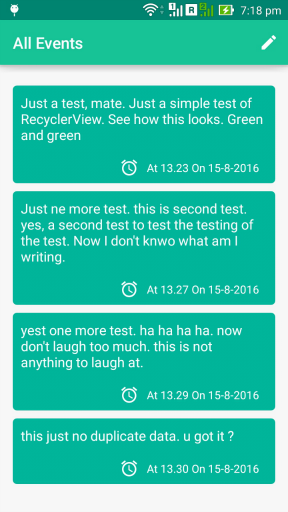
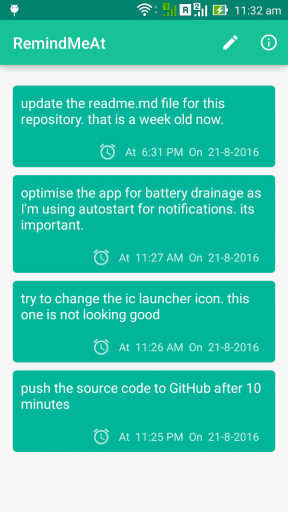
app is feature ready now

diff --git a/RemindMeAt/app/src/main/java/com/asu/remind/activity/AddEvent.java b/RemindMeAt/app/src/main/java/com/asu/remind/activity/AddEvent.java
@@ -96,9 +96,6 @@ public class AddEvent extends AppCompatActivity {
             c1 = Calendar.getInstance();
             mHour = c1.get(Calendar.HOUR_OF_DAY);
             mMinute = c1.get(Calendar.MINUTE);
-            formattedTime = FormatTime(mHour, mMinute);
-
-
 
                 // Launch Time Picker Dialog
             TimePickerDialog timePickerDialog = new TimePickerDialog(AddEvent.this,
@@ -107,6 +104,7 @@ public class AddEvent extends AppCompatActivity {
                         @Override
                        public void onTimeSet(TimePicker view, int hourOfDay, int minute) {
 
+                            formattedTime = FormatTime(hourOfDay, minute);
                             edtTime.setText(formattedTime);
                         }
                     }, mHour, mMinute, false);
@@ -232,6 +230,41 @@ public class AddEvent extends AppCompatActivity {
                 break;
             }
         }
+    }
+
+
+
+    public String FormatTime(int hour, int minute){
+
+        String time;
+        time = "";
+        String formattedMinute;
+
+        if(minute/10 == 0){
+            formattedMinute = "0"+minute;
+        }
+        else{
+            formattedMinute = ""+minute;
+        }
+
+
+        if(hour == 0){
+            time = "12" + ":" + formattedMinute + " AM";
+        }
+        else if(hour < 12){
+            time = hour + ":" + formattedMinute + " AM";
+        }
+        else if(hour == 12){
+            time = "12" + ":" + formattedMinute + " PM";
+        }
+        else{
+            int temp = hour - 12;
+            time = temp + ":" + formattedMinute + " PM";
+        }
+
+
+
+        return time;
     }
 
 

diff --git a/RemindMeAt/app/src/main/java/com/asu/remind/util/BootUpReceiver.java b/RemindMeAt/app/src/main/java/com/asu/remind/util/BootUpReceiver.java
@@ -1,0 +1,21 @@
+package com.asu.remind.util;
+
+import android.content.BroadcastReceiver;
+import android.content.Context;
+import android.content.Intent;
+
+import com.asu.remind.activity.MainActivity;
+
+/**
+ * Created by asu on 21-Aug-16.
+ */
+public class BootUpReceiver extends BroadcastReceiver {
+
+    @Override
+    public void onReceive(Context context, Intent intent) {
+        Intent i = new Intent(context, MainActivity.class);
+        i.addFlags(Intent.FLAG_ACTIVITY_NEW_TASK);
+        context.startActivity(i);
+    }
+
+}

diff --git a/RemindMeAt/app/src/main/java/com/asu/remind/adapter/ListingsAdapter.java b/RemindMeAt/app/src/main/java/com/asu/remind/adapter/ListingsAdapter.java
@@ -65,7 +65,7 @@ public class ListingsAdapter extends RecyclerView.Adapter<ListingsAdapter.Viewho
         model = data.get(position);
 
         holder.eventText.setText(model.getEvent());
-        holder.timeAndDateText.setText("At "+model.getTime() +" On "+model.getDate());
+        holder.timeAndDateText.setText("At  "+model.getTime() +"  On  "+model.getDate());
 
         // long click an item to delete it from database
         holder.toplayout.setOnLongClickListener(new View.OnLongClickListener() {

diff --git a/RemindMeAt/app/src/main/java/com/asu/remind/util/TimeAlarm.java b/RemindMeAt/app/src/main/java/com/asu/remind/util/TimeAlarm.java
@@ -44,6 +44,7 @@ public class TimeAlarm extends BroadcastReceiver {
         NotificationCompat.Builder notificationBuilder = new NotificationCompat.Builder(context)
                 .setSmallIcon(R.mipmap.ic_launcher)
                 .setLargeIcon(bigIcon)
+                .setAutoCancel(true)
                 .setContentTitle("Reminder")
                 .setContentText(event)
                 .setSound(defaultSoundUri)
